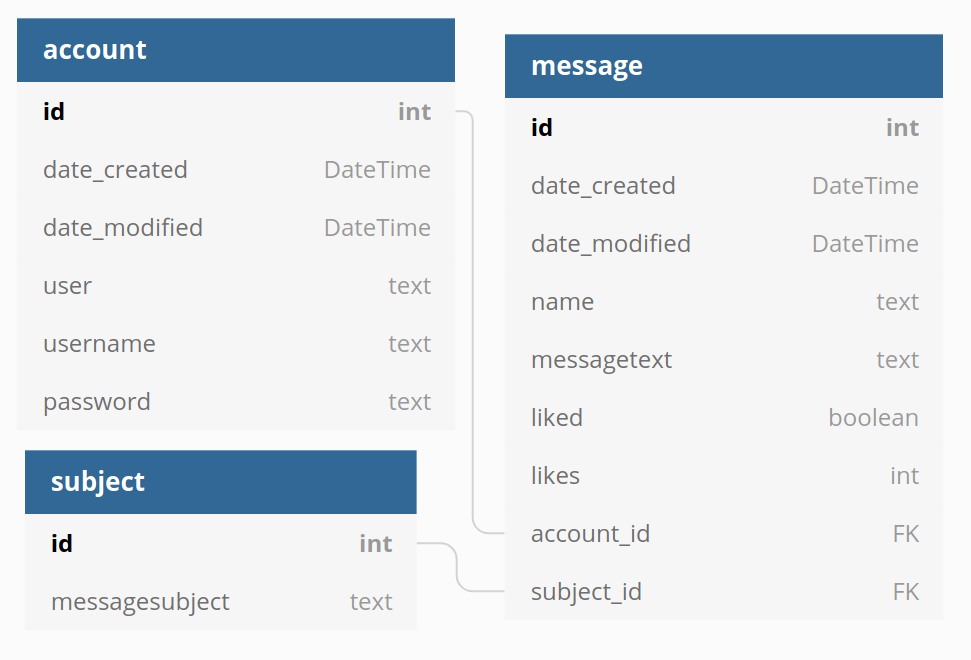
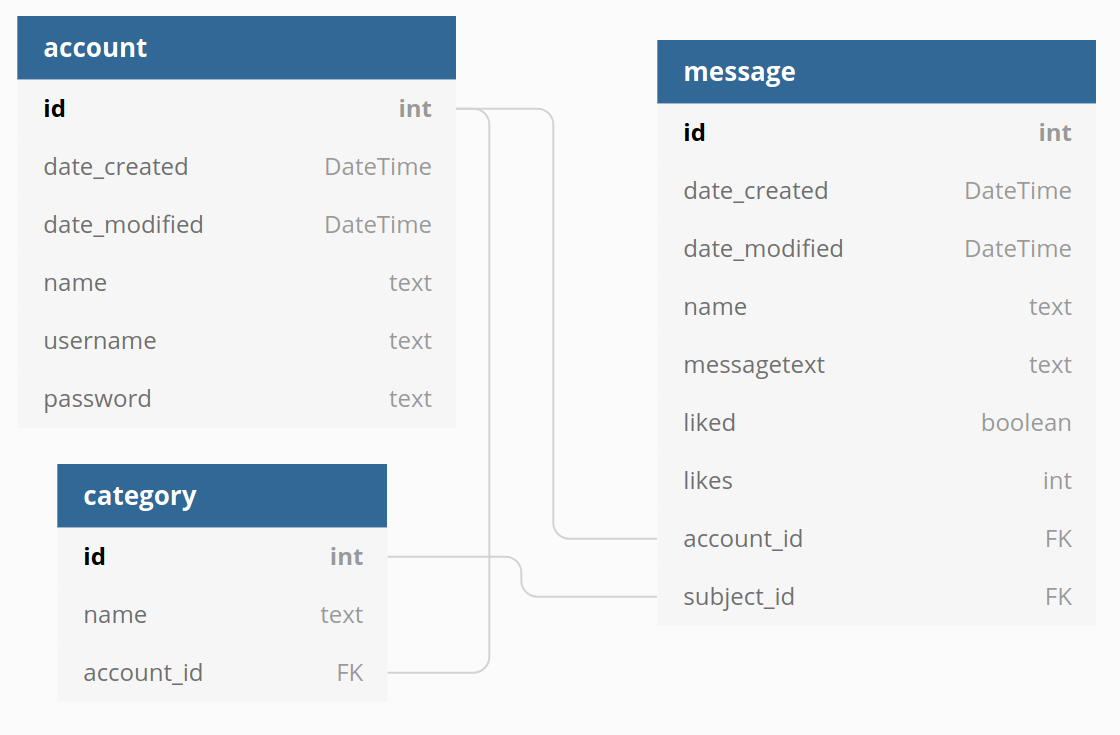
documentation updated

diff --git a/documentation/User stories.md b/documentation/User stories.md
@@ -1,25 +1,37 @@
 **As a user I can participate in discussions on the chat forum page.**
 
+**As a user without an account I have limited access to the chat forum's features**
+
 As a user I can list all the posted messages and read them.
 
 As a user I can create an account to be able to post messages on the chat forum.
 
-As a signed in user I can write a new message to that other users can read it.
+**As a user with an account I have access to more features**
+
+As a signed in user I can write a new message so that other users can read it.
 
 As a signed in user I can click the like button on the right of the message to change the liked-status to "Liked".
 
 As a signed in user I can click the dislike button on the right of the message to change the liked-status to "Not liked".
 
-## Planned features
+As a signed in user I can delete my own messages.
 
-As a signed in user I can edit or delete my own messages.
-
-As a signed in user I can create and edit subjects.
-
-As a user I can filter messages by their subject.
+As a signed in user I can create new message categories.
 
 **As an administrator I have privileges**
 
 As an administrator I can delete messages even if I am not the one who posted them.
 
-As an administrator I can edit or delete subjects.
+## Planned features
+
+As a user I can filter messages by their category.
+
+As a signed in user I can edit my own messages.
+
+As a signed in user I can add a category to the messages I write.
+
+As a signed in user I can edit or delete message categories that I have created.
+
+As a signed in user I can increase the number of likes a message has by one by liking it or remove my like from it if I have already liked it.
+
+As an administrator I can edit or delete message categories.

diff --git a/README.md b/README.md
@@ -6,8 +6,8 @@ Users will be able to
 * [ ] create, edit and delete an account
 * [x] sign in
 * [x] add messages
-* [ ] create and edit subjects
-* [ ] filter messages by subjects
+* [ ] create and edit message categories
+* [ ] filter messages by their category
 * [ ] add answers to other messages
 * [x] delete their own messages
 * [ ] like or dislike other users' messages
@@ -57,7 +57,7 @@ Changes/new features
 * You can now list how many messages each user has written.
 * Messages can now be deleted by the user who wrote them.
 * An administrator account has been added. It has permission to delete all messages on the chat forum.
-* Users who are logged in can add subjects. The option to add a subject to a message was not completed in time for this week's deadline.
+* Users who are logged in can add message categories. The option to add a category to a message was not completed in time for this week's deadline.
 
 Planned features/notes
 * A feature to filter the messages by a specified user is planned, but has not been completed yet.
